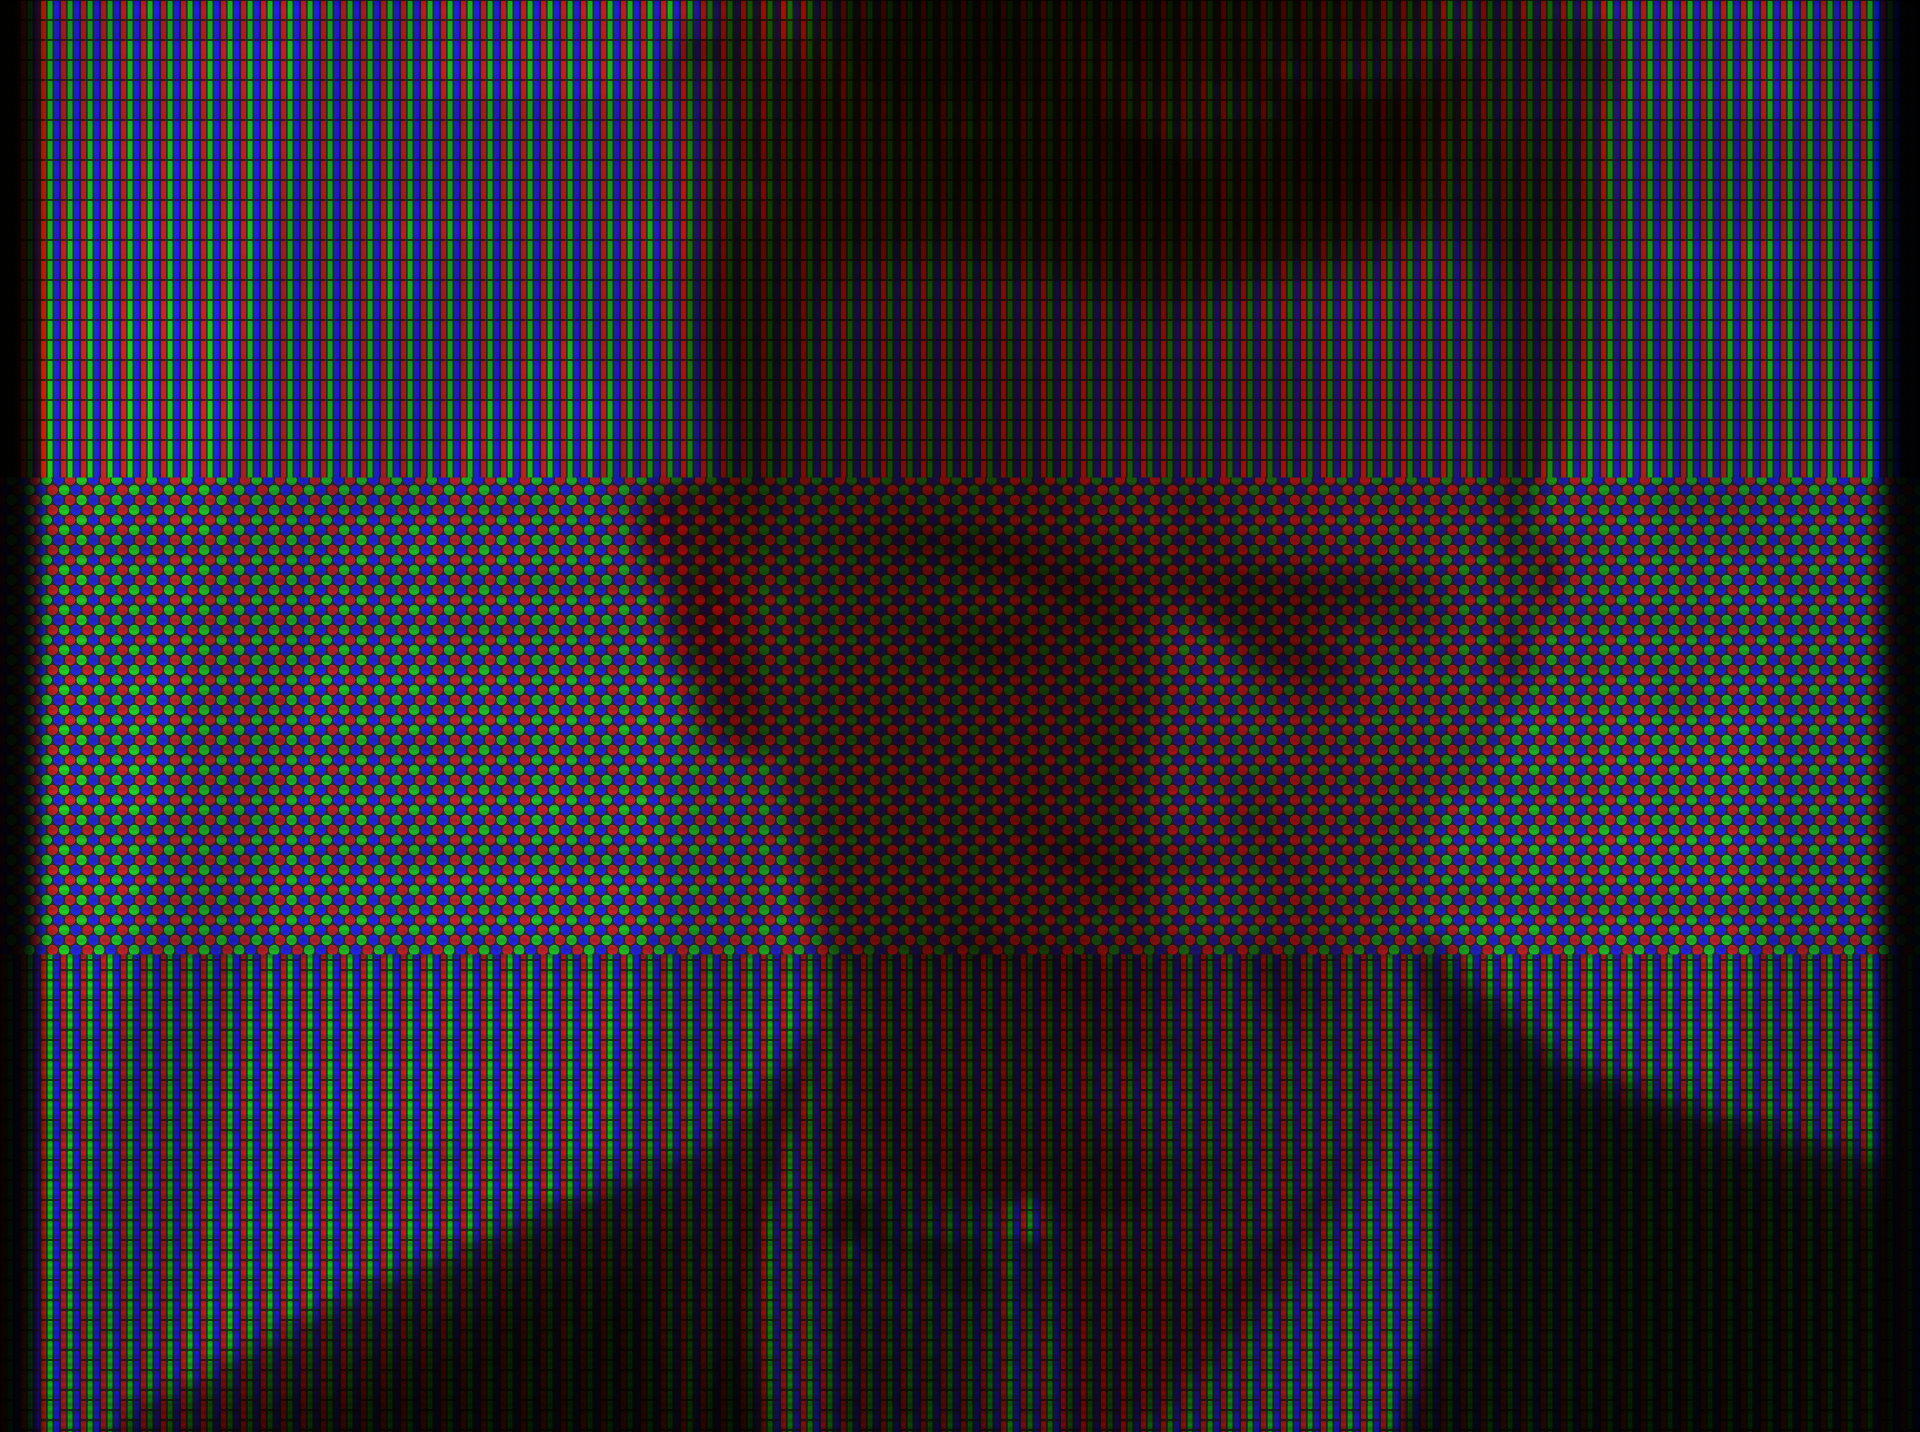
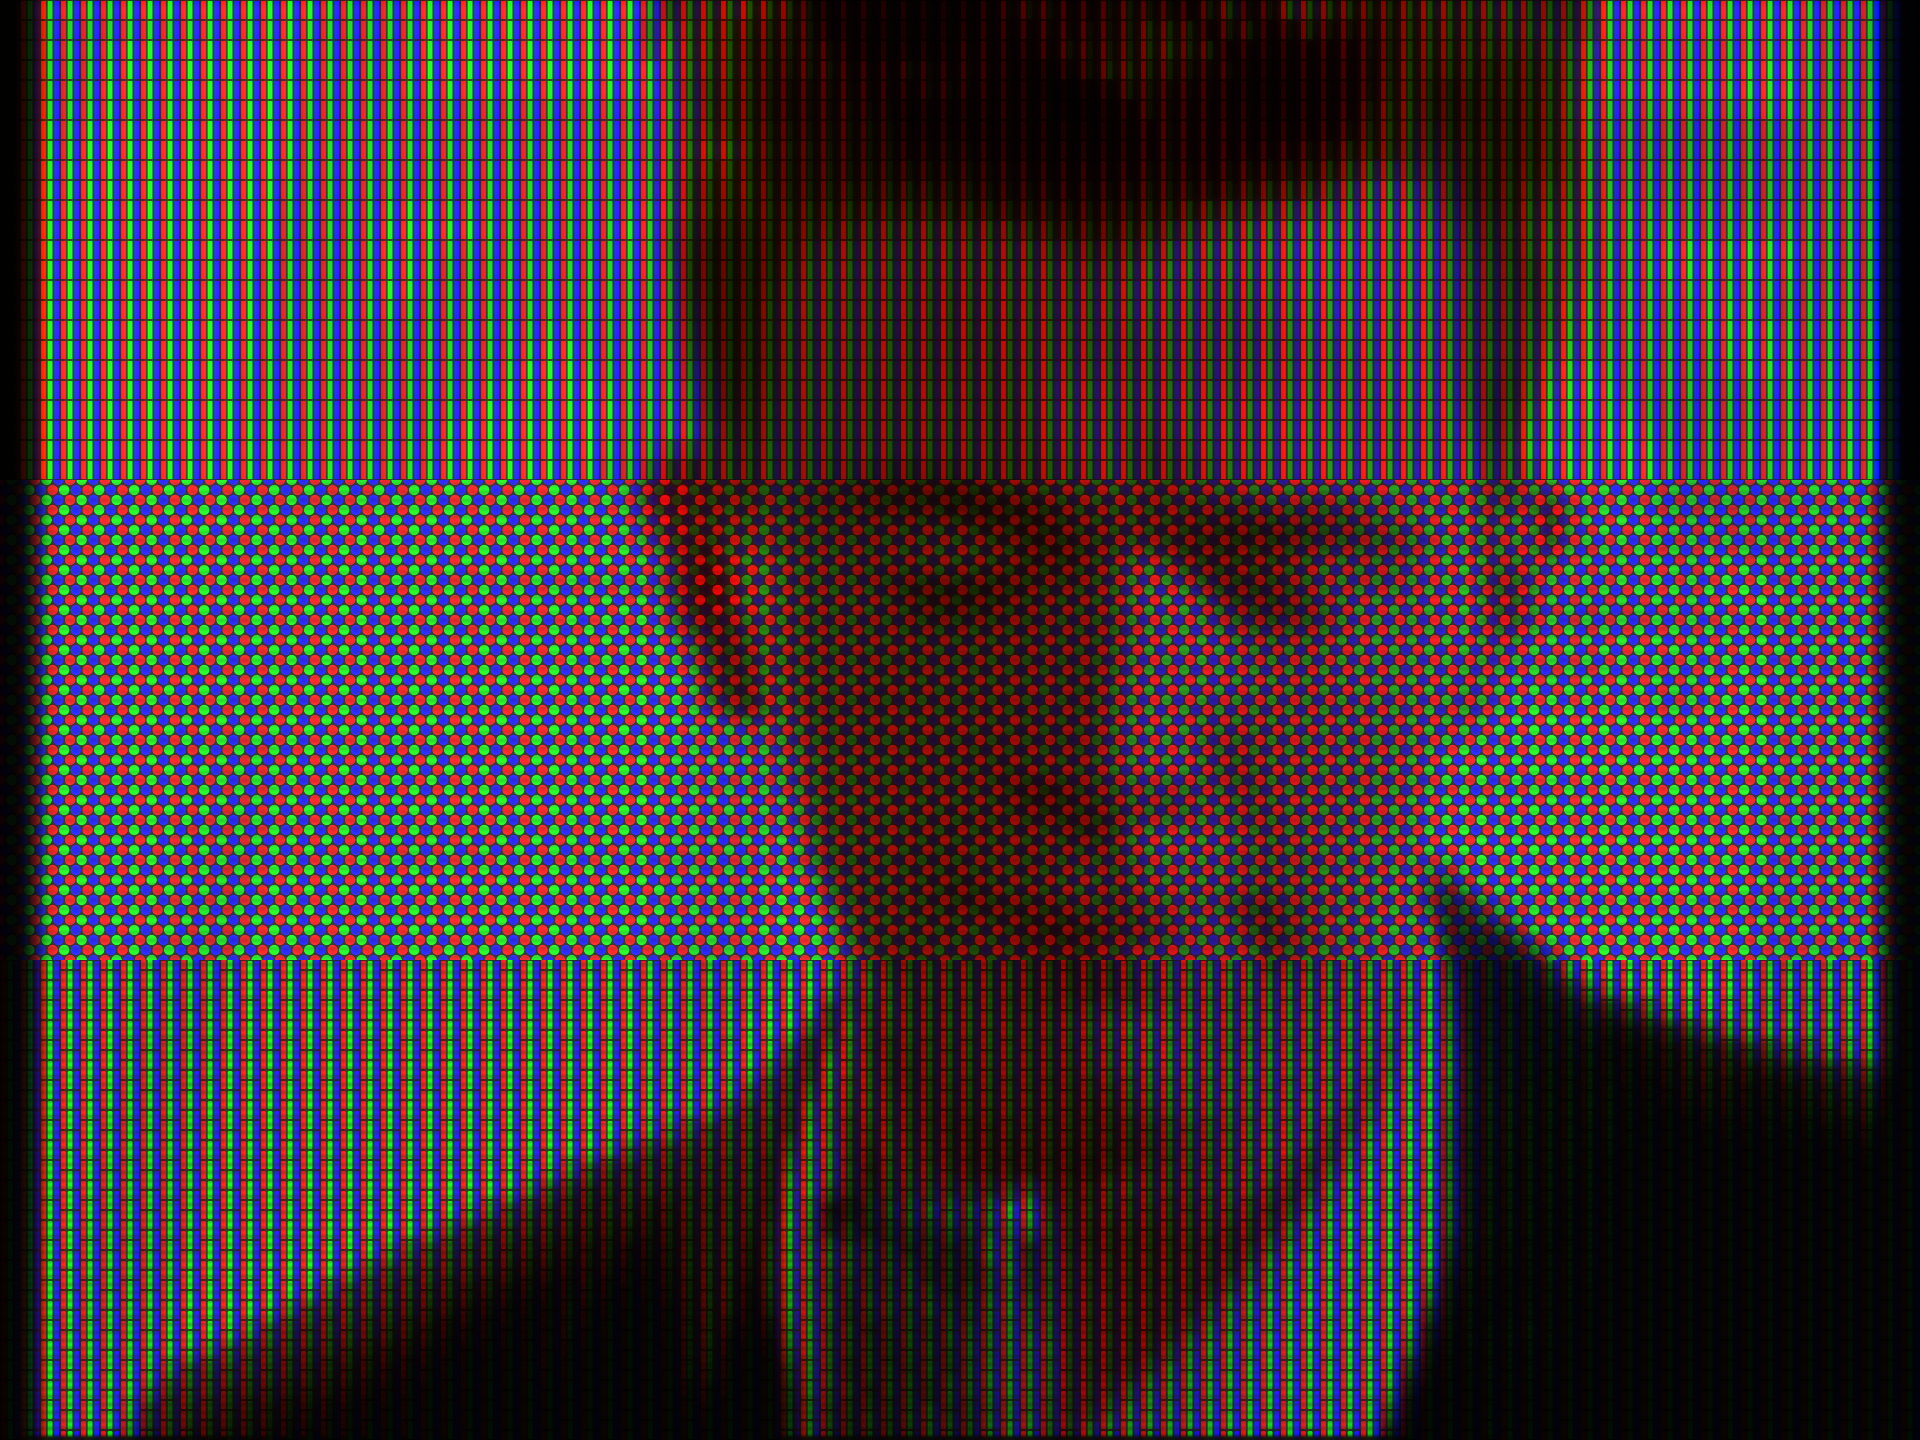
Add brighten option

diff --git a/pixelgreat/core.py b/pixelgreat/core.py
@@ -20,6 +20,7 @@ class Pixelgreat:
                  direction=None,  # Set default based on screen type
                  pixel_aspect=None,  # Set to a static default
                  pixelate=None,  # Set to a static default
+                 brighten=None,  # Set to a static default
                  blur=None,  # Set default based on screen type
                  washout=None,  # Set default based on screen type
                  scanline_strength=None,  # Set default based on screen type
@@ -123,6 +124,17 @@ class Pixelgreat:
                 message="Blur amount must be between {min} and {max} (got {val})"
             )
             self.blur = blur
+
+        if brighten is None:
+            self.brighten = DEFAULTS["brighten"]
+        else:
+            helpers.assert_value_in_range(
+                brighten,
+                minimum=0,
+                maximum=1,
+                message="Brighten amount must be between {min} and {max} (got {val})"
+            )
+            self.brighten = brighten
 
         if bloom_size is None:
             bloom_size = DEFAULTS["bloom_size"]
@@ -257,6 +269,7 @@ class Pixelgreat:
             pixel_width=self.pixel_width,
             pixel_padding=self.pixel_padding,
             direction=self.direction,
+            brighten=self.brighten,
             washout=self.washout,
             blur=self.blur,
             bloom_size=self.bloom_size,
@@ -294,6 +307,7 @@ def pixelgreat(image,
                direction=None,
                pixel_aspect=None,
                pixelate=None,
+               brighten=None,
                blur=None,
                washout=None,
                scanline_strength=None,
@@ -317,6 +331,7 @@ def pixelgreat(image,
         pixel_padding=pixel_padding,
         direction=direction,
         washout=washout,
+        brighten=brighten,
         blur=blur,
         bloom_size=bloom_size,
         pixel_aspect=pixel_aspect,
@@ -388,6 +403,12 @@ def parse_args_single():
 
     parser.add_argument("-npx", "--no-pixelate", dest="pixelate", action="store_false",
                         help="if given, the image will not be pixelated, but the other filters will still be applied"
+                        )
+
+    parser.add_argument("-br", "--brighten", dest="brighten", type=float, required=False,
+                        default=None,
+                        help="how much to brighten the source image {{0.0 - 1.0}} [{default}]".format(
+                            default=DEFAULTS["brighten"])
                         )
 
     parser.add_argument("-b", "--blur", dest="blur_amount", type=float, required=False,
@@ -504,6 +525,7 @@ def single():
                         pixel_padding=args.padding,
                         direction=args.direction,
                         washout=args.washout,
+                        brighten=args.brighten,
                         blur=args.blur_amount,
                         bloom_size=args.bloom_size,
                         pixel_aspect=args.pixel_aspect,
@@ -582,6 +604,12 @@ def parse_args_sequence():
 
     parser.add_argument("-npx", "--no-pixelate", dest="pixelate", action="store_false",
                         help="if given, the image will not be pixelated, but the other filters will still be applied"
+                        )
+
+    parser.add_argument("-br", "--brighten", dest="brighten", type=float, required=False,
+                        default=None,
+                        help="how much to brighten the source image {{0.0 - 1.0}} [{default}]".format(
+                            default=DEFAULTS["brighten"])
                         )
 
     parser.add_argument("-b", "--blur", dest="blur_amount", type=float, required=False,
@@ -681,6 +709,10 @@ def parse_args_sequence():
     if helpers.parse_sequenced_image_name(parsed_args.image_in)["error"] is not None:
         parser.error("No image sequence found. Ensure they are named like this: name0000.png, name0001.png, etc.")
 
+    # Set default scale
+    if parsed_args.output_scale is None:
+        parsed_args.output_scale = 1.0
+
     return parsed_args
 
 
@@ -714,6 +746,7 @@ def sequence():
         pixel_padding=args.padding,
         direction=args.direction,
         washout=args.washout,
+        brighten=args.brighten,
         blur=args.blur_amount,
         bloom_size=args.bloom_size,
         pixel_aspect=args.pixel_aspect,
@@ -747,6 +780,8 @@ def sequence():
         main_name, ext = os.path.splitext(args.image_out)
         this_number = str(i).rjust(sequence_info["digits"], "0")
         output_name = f"{main_name}{this_number}{ext}"
+
+        print(f"  Saving image...")
 
         # Save the image
         try:

diff --git a/pixelgreat/filters.py b/pixelgreat/filters.py
@@ -1,5 +1,5 @@
 import math
-from PIL import Image, ImageDraw, ImageChops, ImageFilter
+from PIL import Image, ImageDraw, ImageChops, ImageFilter, ImageEnhance
 
 from . import helpers
 from .constants import Direction, ScreenType
@@ -566,6 +566,7 @@ class CompositeFilter:
                  pixel_width,
                  pixel_padding,
                  direction,
+                 brighten=1.0,
                  washout=0.0,
                  blur=0.0,
                  bloom_size=0.0,
@@ -587,6 +588,9 @@ class CompositeFilter:
         self.pixel_padding = pixel_padding
 
         self.direction = direction
+
+        self.brighten = brighten
+        self.brighten_value = 1.0 + ((1/3) * self.brighten)
 
         self.washout = washout
         self.washout_value = round((self.washout * 255) / 10)
@@ -712,6 +716,11 @@ class CompositeFilter:
         # Make input image the correct color mode
         if image.mode != self.color_mode:
             image = image.convert(self.color_mode)
+
+        # Brighten if applicable
+        if self.brighten > 0:
+            image = ImageEnhance.Contrast(image).enhance(self.brighten_value)
+            image = ImageEnhance.Brightness(image).enhance(self.brighten_value)
 
         # Pixelate / scale to final size
         if self.pixelate:

diff --git a/pixelgreat/constants.py b/pixelgreat/constants.py
@@ -32,6 +32,7 @@ DEFAULTS = {
         "CRT_TV": 0.5,
         "CRT_MONITOR": 0.5
     },
+    "brighten": 1.0,
     "blur": {
         "LCD": 0,
         "CRT_TV": 0.5,

diff --git a/README_pypi.md b/README_pypi.md
@@ -1,5 +1,5 @@
-<p align="center" style="font-size:100px; font-family:Lexend_Deca;">pixelgreat</p>
-<p align="center" style="font-size:30px; font-family:Lexend_Deca;">A highly realistic RGB pixel filter.</p>
+<p align="center" style="font-family:Lexend_Deca;"><center><h1>pixelgreat</h1></center></p>
+<p align="center" style="font-family:Lexend_Deca;"><center><h2>A highly realistic RGB pixel filter.</h2></center></p>
 
 <p align="center"><img src="https://github.com/nimaid/pixelgreat/blob/main/docs/example.png?raw=true" width="800px" alt="Example of the effect"/></p>
 
@@ -7,8 +7,8 @@
 The command to convert a single image is `pixelgreat`:
 ```
 usage: pixelgreat [-h] -i IMAGE_IN -o IMAGE_OUT -s PIXEL_SIZE [-os OUTPUT_SCALE] [-t SCREEN_TYPE]
-                  [-d DIRECTION] [-a PIXEL_ASPECT] [-npx] [-b BLUR_AMOUNT] [-w WASHOUT]
-                  [-sst SCANLINE_STRENGTH] [-ssp SCANLINE_SPACING] [-ssz SCANLINE_SIZE]
+                  [-d DIRECTION] [-a PIXEL_ASPECT] [-npx] [-br BRIGHTEN] [-b BLUR_AMOUNT]
+                  [-w WASHOUT] [-sst SCANLINE_STRENGTH] [-ssp SCANLINE_SPACING] [-ssz SCANLINE_SIZE]
                   [-sb SCANLINE_BLUR] [-gst GRID_STRENGTH] [-p PADDING] [-r ROUNDING]
                   [-bst BLOOM_STRENGTH] [-bsz BLOOM_SIZE]
 
@@ -36,6 +36,8 @@ options:
                         the aspect ratio of the pixels, width / height {0.33 - 3.0} [1.0]
   -npx, --no-pixelate   if given, the image will not be pixelated, but the other filters will still
                         be applied
+  -br BRIGHTEN, --brighten BRIGHTEN
+                        how much to brighten the source image {0.0 - 1.0} [1.0]
   -b BLUR_AMOUNT, --blur BLUR_AMOUNT
                         how much to blur the source image {0.0 - 1.0} [varies w/ screen type]
   -w WASHOUT, --washout WASHOUT
@@ -64,10 +66,11 @@ options:
 To process an image sequence, use the command `pixelgreat-sequence`:
 ```
 usage: pixelgreat-sequence [-h] -i IMAGE_IN -o IMAGE_OUT -s PIXEL_SIZE [-os OUTPUT_SCALE]
-                           [-t SCREEN_TYPE] [-d DIRECTION] [-a PIXEL_ASPECT] [-npx] [-b BLUR_AMOUNT]
-                           [-w WASHOUT] [-sst SCANLINE_STRENGTH] [-ssp SCANLINE_SPACING]
-                           [-ssz SCANLINE_SIZE] [-sb SCANLINE_BLUR] [-gst GRID_STRENGTH]
-                           [-p PADDING] [-r ROUNDING] [-bst BLOOM_STRENGTH] [-bsz BLOOM_SIZE]
+                           [-t SCREEN_TYPE] [-d DIRECTION] [-a PIXEL_ASPECT] [-npx] [-br BRIGHTEN]
+                           [-b BLUR_AMOUNT] [-w WASHOUT] [-sst SCANLINE_STRENGTH]
+                           [-ssp SCANLINE_SPACING] [-ssz SCANLINE_SIZE] [-sb SCANLINE_BLUR]
+                           [-gst GRID_STRENGTH] [-p PADDING] [-r ROUNDING] [-bst BLOOM_STRENGTH]
+                           [-bsz BLOOM_SIZE]
 
 A highly realistic RGB pixel filter
 
@@ -81,7 +84,8 @@ options:
   -i IMAGE_IN, --input IMAGE_IN
                         the image to convert (must be part of a sequence)
   -o IMAGE_OUT, --output IMAGE_OUT
-                        where to save the converted image sequence, and what filetype to save them as
+                        where to save the converted image sequence, and what filetype to save them
+                        as
   -s PIXEL_SIZE, --size PIXEL_SIZE
                         the size of the pixels {3 - no limit}
   -os OUTPUT_SCALE, --output-scale OUTPUT_SCALE
@@ -95,6 +99,8 @@ options:
                         the aspect ratio of the pixels, width / height {0.33 - 3.0} [1.0]
   -npx, --no-pixelate   if given, the image will not be pixelated, but the other filters will still
                         be applied
+  -br BRIGHTEN, --brighten BRIGHTEN
+                        how much to brighten the source image {0.0 - 1.0} [1.0]
   -b BLUR_AMOUNT, --blur BLUR_AMOUNT
                         how much to blur the source image {0.0 - 1.0} [varies w/ screen type]
   -w WASHOUT, --washout WASHOUT
@@ -221,6 +227,10 @@ Here are the full definitions for the main class `Pixelgreat` and the main funct
 - `pixelate` **[optional]**
   - If the image should be pixelated before applying the filters
   - A boolean value
+- `brighten` **[optional]**
+  - How much to brighten the image (before processing)
+  - Must be between `0.0` and `1.0`
+  - `0` disables the brightening effect
 - `blur` **[optional]**
   - How much to blur the image (after pixelation, before applying the filter)
   - Must be between `0.0` and `1.0`
@@ -319,6 +329,10 @@ Here are the full definitions for the main class `Pixelgreat` and the main funct
 - `pixelate` **[optional]**
   - If the image should be pixelated before applying the filters
   - A boolean value
+- `brighten` **[optional]**
+  - How much to brighten the image (before processing)
+  - Must be between `0.0` and `1.0`
+  - `0` disables the brightening effect
 - `blur` **[optional]**
   - How much to blur the image (after pixelation, before applying the filter)
   - Must be between `0.0` and `1.0`

diff --git a/README.md b/README.md
@@ -1,5 +1,5 @@
-<p align="center" style="font-size:100px; font-family:Lexend_Deca;">pixelgreat</p>
-<p align="center" style="font-size:30px; font-family:Lexend_Deca;">A highly realistic RGB pixel filter for Python.</p>
+<p align="center" style="font-family:Lexend_Deca;"><center><h1>pixelgreat</h1></center></p>
+<p align="center" style="font-family:Lexend_Deca;"><center><h2>A highly realistic RGB pixel filter for Python.</h2></center></p>
 
 <p align="center"><img src="docs/example.png" width="800px" alt="Example of the effect"/></p>
 
@@ -15,8 +15,8 @@ pip install pixelgreat
 The command to convert a single image is `pixelgreat`:
 ```
 usage: pixelgreat [-h] -i IMAGE_IN -o IMAGE_OUT -s PIXEL_SIZE [-os OUTPUT_SCALE] [-t SCREEN_TYPE]
-                  [-d DIRECTION] [-a PIXEL_ASPECT] [-npx] [-b BLUR_AMOUNT] [-w WASHOUT]
-                  [-sst SCANLINE_STRENGTH] [-ssp SCANLINE_SPACING] [-ssz SCANLINE_SIZE]
+                  [-d DIRECTION] [-a PIXEL_ASPECT] [-npx] [-br BRIGHTEN] [-b BLUR_AMOUNT]
+                  [-w WASHOUT] [-sst SCANLINE_STRENGTH] [-ssp SCANLINE_SPACING] [-ssz SCANLINE_SIZE]
                   [-sb SCANLINE_BLUR] [-gst GRID_STRENGTH] [-p PADDING] [-r ROUNDING]
                   [-bst BLOOM_STRENGTH] [-bsz BLOOM_SIZE]
 
@@ -44,6 +44,8 @@ options:
                         the aspect ratio of the pixels, width / height {0.33 - 3.0} [1.0]
   -npx, --no-pixelate   if given, the image will not be pixelated, but the other filters will still
                         be applied
+  -br BRIGHTEN, --brighten BRIGHTEN
+                        how much to brighten the source image {0.0 - 1.0} [1.0]
   -b BLUR_AMOUNT, --blur BLUR_AMOUNT
                         how much to blur the source image {0.0 - 1.0} [varies w/ screen type]
   -w WASHOUT, --washout WASHOUT
@@ -72,10 +74,11 @@ options:
 To process an image sequence, use the command `pixelgreat-sequence`:
 ```
 usage: pixelgreat-sequence [-h] -i IMAGE_IN -o IMAGE_OUT -s PIXEL_SIZE [-os OUTPUT_SCALE]
-                           [-t SCREEN_TYPE] [-d DIRECTION] [-a PIXEL_ASPECT] [-npx] [-b BLUR_AMOUNT]
-                           [-w WASHOUT] [-sst SCANLINE_STRENGTH] [-ssp SCANLINE_SPACING]
-                           [-ssz SCANLINE_SIZE] [-sb SCANLINE_BLUR] [-gst GRID_STRENGTH]
-                           [-p PADDING] [-r ROUNDING] [-bst BLOOM_STRENGTH] [-bsz BLOOM_SIZE]
+                           [-t SCREEN_TYPE] [-d DIRECTION] [-a PIXEL_ASPECT] [-npx] [-br BRIGHTEN]
+                           [-b BLUR_AMOUNT] [-w WASHOUT] [-sst SCANLINE_STRENGTH]
+                           [-ssp SCANLINE_SPACING] [-ssz SCANLINE_SIZE] [-sb SCANLINE_BLUR]
+                           [-gst GRID_STRENGTH] [-p PADDING] [-r ROUNDING] [-bst BLOOM_STRENGTH]
+                           [-bsz BLOOM_SIZE]
 
 A highly realistic RGB pixel filter
 
@@ -89,7 +92,8 @@ options:
   -i IMAGE_IN, --input IMAGE_IN
                         the image to convert (must be part of a sequence)
   -o IMAGE_OUT, --output IMAGE_OUT
-                        where to save the converted image sequence, and what filetype to save them as
+                        where to save the converted image sequence, and what filetype to save them
+                        as
   -s PIXEL_SIZE, --size PIXEL_SIZE
                         the size of the pixels {3 - no limit}
   -os OUTPUT_SCALE, --output-scale OUTPUT_SCALE
@@ -103,6 +107,8 @@ options:
                         the aspect ratio of the pixels, width / height {0.33 - 3.0} [1.0]
   -npx, --no-pixelate   if given, the image will not be pixelated, but the other filters will still
                         be applied
+  -br BRIGHTEN, --brighten BRIGHTEN
+                        how much to brighten the source image {0.0 - 1.0} [1.0]
   -b BLUR_AMOUNT, --blur BLUR_AMOUNT
                         how much to blur the source image {0.0 - 1.0} [varies w/ screen type]
   -w WASHOUT, --washout WASHOUT
@@ -229,6 +235,10 @@ Here are the full definitions for the main class `Pixelgreat` and the main funct
 - `pixelate` **[optional]**
   - If the image should be pixelated before applying the filters
   - A boolean value
+- `brighten` **[optional]**
+  - How much to brighten the image (before processing)
+  - Must be between `0.0` and `1.0`
+  - `0` disables the brightening effect
 - `blur` **[optional]**
   - How much to blur the image (after pixelation, before applying the filter)
   - Must be between `0.0` and `1.0`
@@ -327,6 +337,10 @@ Here are the full definitions for the main class `Pixelgreat` and the main funct
 - `pixelate` **[optional]**
   - If the image should be pixelated before applying the filters
   - A boolean value
+- `brighten` **[optional]**
+  - How much to brighten the image (before processing)
+  - Must be between `0.0` and `1.0`
+  - `0` disables the brightening effect
 - `blur` **[optional]**
   - How much to blur the image (after pixelation, before applying the filter)
   - Must be between `0.0` and `1.0`
